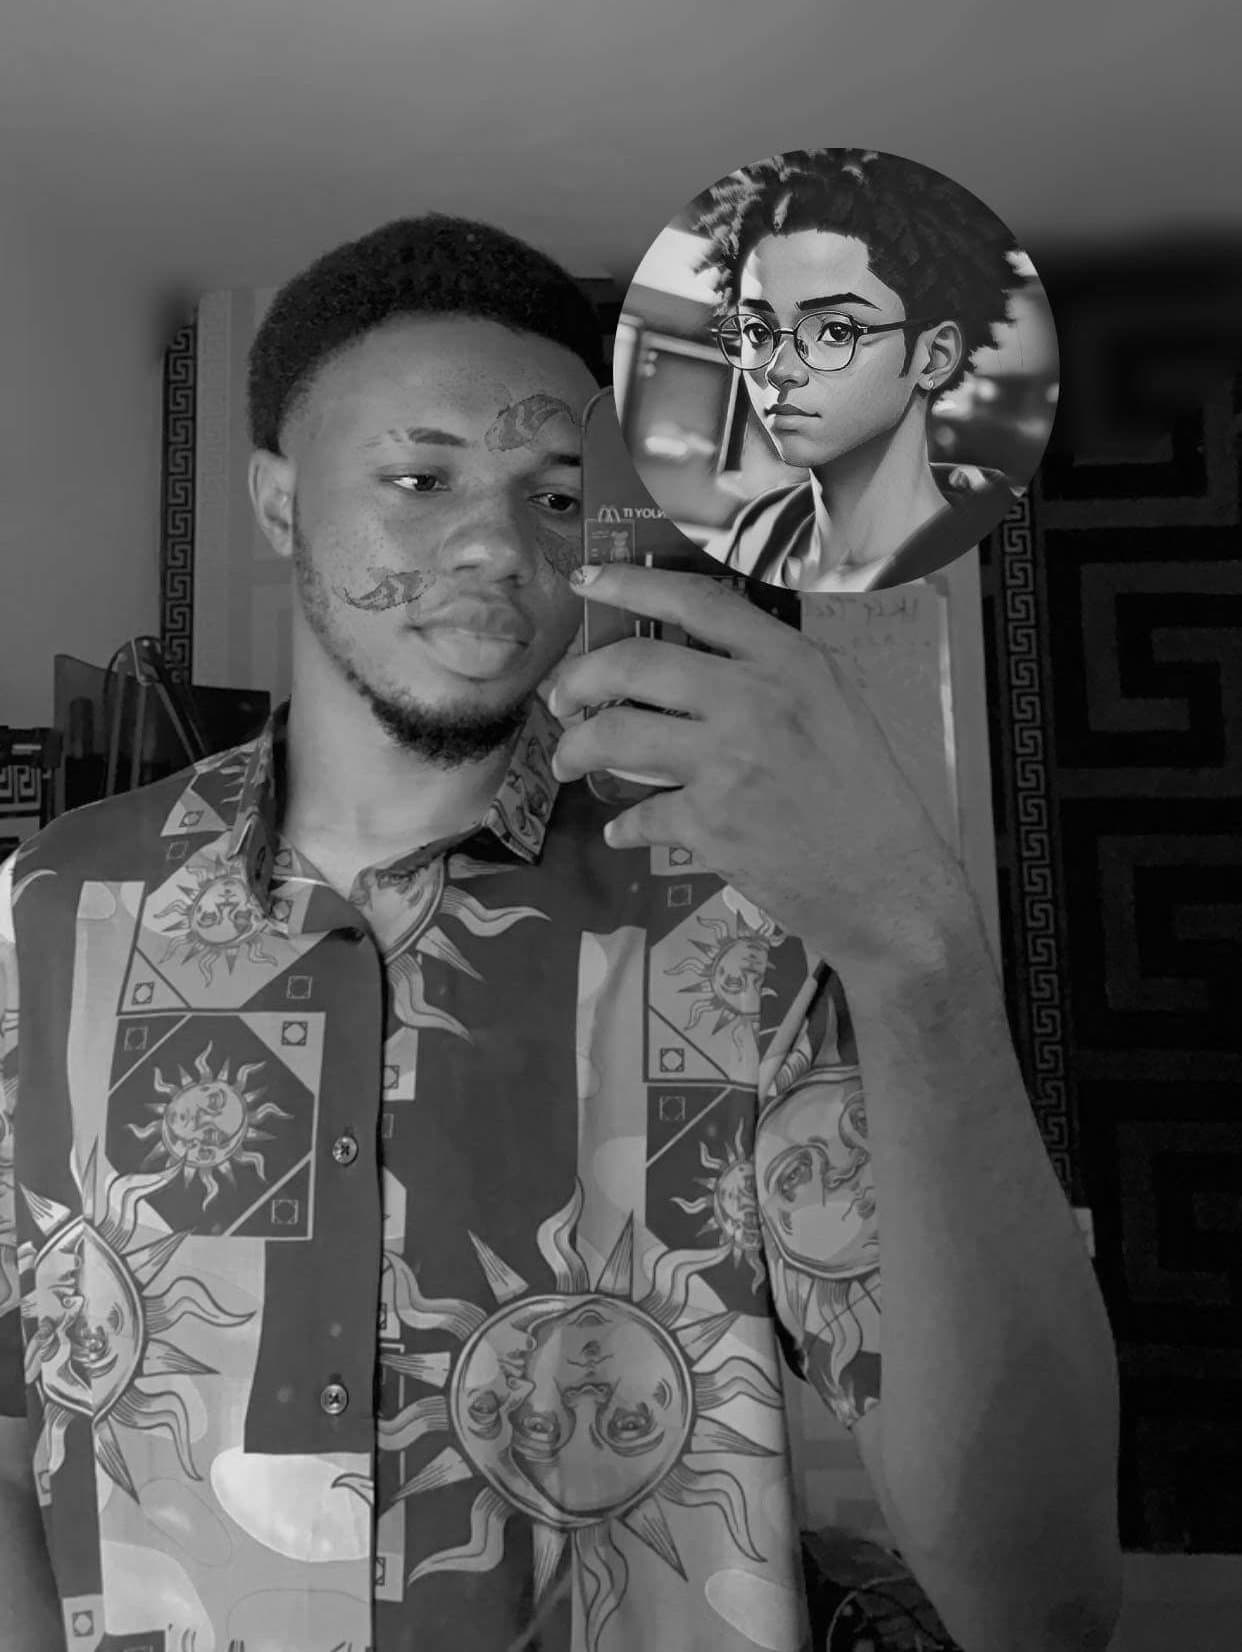
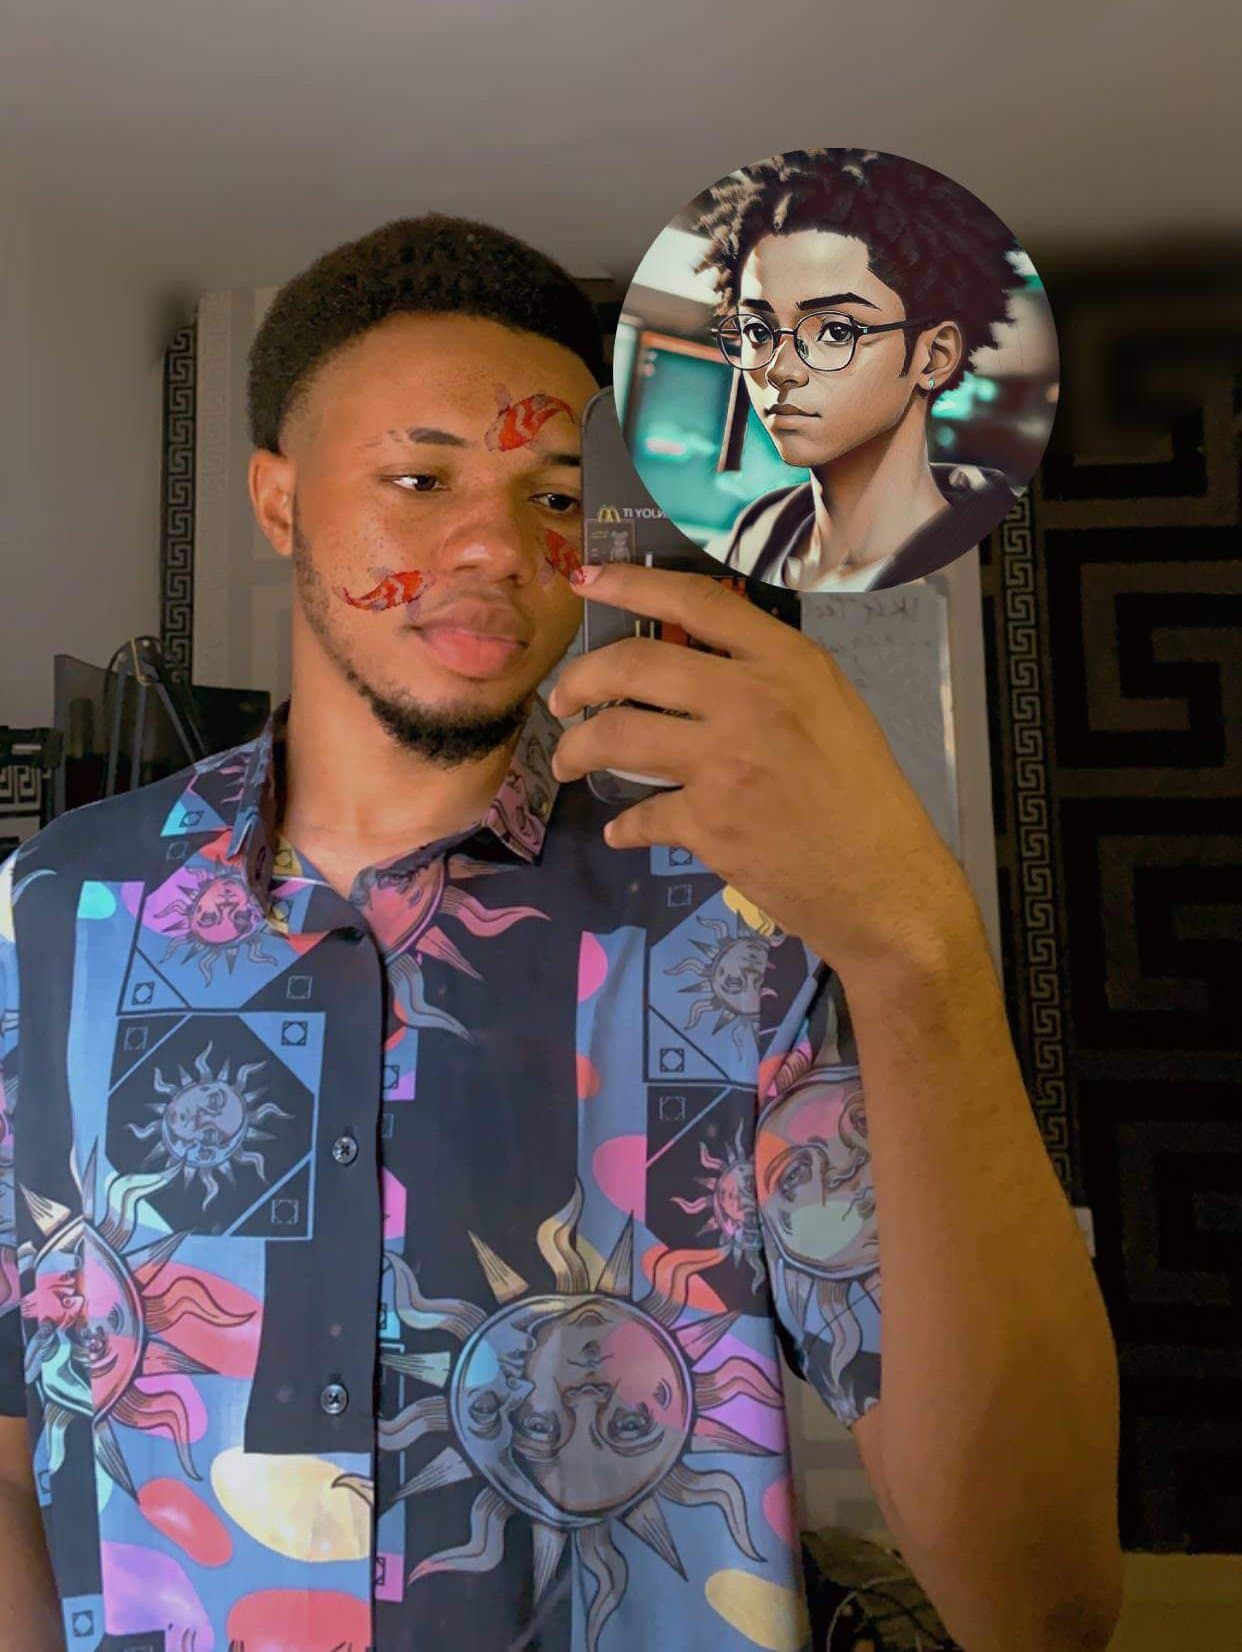
feat(images): render gooey grayscale reveals from color textures

diff --git a/src/components/home/SectionTwo.tsx b/src/components/home/SectionTwo.tsx
@@ -8,7 +8,7 @@ import { usePathname } from 'next/navigation';
 
 const SectionTwo = () => {
   const projects = useMemo<
-    (Record<'name' | 'about' | 'cover1' | 'cover2' | 'alt' | 'link1' | 'role', string> &
+    (Record<'name' | 'about' | 'cover' | 'alt' | 'link1' | 'role', string> &
       Partial<Record<'link2' | 'link1Text' | 'link2Text', string>> & { stack: string[]; id: number })[]
   >(
     () =>
@@ -17,8 +17,7 @@ const SectionTwo = () => {
           name: 'Useri',
           about:
             'Agro-exclusive market and logistics mobile platform that helps tackle food waste and optimize food supply chain.',
-          cover1: '/assets/img/useri-cover.jpg',
-          cover2: '/assets/img/useri-cover-hover.jpg',
+          cover: '/assets/img/useri-cover-color.jpg',
           alt: 'Useri cover',
           role: 'Mobile/Backend Engineer',
           link1: 'https://play.google.com/store/apps/details?id=com.useriapp.useri',
@@ -31,8 +30,7 @@ const SectionTwo = () => {
           name: 'Kanta',
           about:
             'Web platform that manages local football teams, players, fixture and live scores with real-time updates.',
-          cover1: '/assets/img/kanta-cover.png',
-          cover2: '/assets/img/kanta-cover-hover.png',
+          cover: '/assets/img/kanta-cover-color.png',
           alt: 'Kanta cover',
           role: 'Full-stack Engineer',
           link1: 'https://kantaball.com',
@@ -42,8 +40,7 @@ const SectionTwo = () => {
         {
           name: 'Dentbud',
           about: 'AI/mobile-based student smart personal assistant for tracking activities, task, courses and more.',
-          cover1: '/assets/img/dentbud-cover.png',
-          cover2: '/assets/img/dentbud-cover-hover.png',
+          cover: '/assets/img/dentbud-cover-color.png',
           alt: 'Dentbud cover',
           role: 'Full-stack/AI Engineer',
           link1: 'https://dentbud.surge.sh',
@@ -53,8 +50,7 @@ const SectionTwo = () => {
         {
           name: 'BAS',
           about: 'Biometric attendance system that tracks student attendance using fingerprint biometrics.',
-          cover1: '/assets/img/bas-cover.png',
-          cover2: '/assets/img/bas-cover-hover.png',
+          cover: '/assets/img/bas-cover-color.png',
           alt: 'BAS cover',
           role: 'Full-stack/CV Engineer',
           link1: 'https://github.com/IamGideonIdoko/bio-attendance-sys#screenshots',
@@ -64,8 +60,7 @@ const SectionTwo = () => {
         {
           name: 'LinAssess',
           about: 'Functional clone of LinkedIn assessment to help you ace your assessments.',
-          cover1: '/assets/img/linassess-cover.jpg',
-          cover2: '/assets/img/linassess-cover-hover.jpg',
+          cover: '/assets/img/linassess-cover-color.jpg',
           alt: 'LinAssess cover',
           role: 'Full-stack Developer',
           link1: 'https://linassess.netlify.app',
@@ -237,8 +232,8 @@ const SectionTwo = () => {
                   <div className={styles.projectImgWrapper}>
                     <div className="gooey__image">
                       <Image
-                        src={project.cover2}
-                        data-hover={project.cover1}
+                        src={project.cover}
+                        data-grayscale-hover="true"
                         alt={project.alt}
                         width={1920}
                         height={1080}

diff --git a/src/classes/GooeyImage.ts b/src/classes/GooeyImage.ts
@@ -29,11 +29,9 @@ export default class GooeyImage {
   private isHovering?: boolean;
   private uniforms?: {
     u_alpha: THREE.IUniform<number>;
+    u_grayscaleHover: THREE.IUniform<number>;
     u_map: THREE.IUniform<THREE.Texture> & { type: UniformType };
     u_ratio: THREE.IUniform<THREE.Vector2>;
-    u_hovermap: THREE.IUniform<THREE.Texture> & { type: UniformType };
-    u_hoverratio: THREE.IUniform<THREE.Vector2>;
-    u_shape: THREE.IUniform<THREE.Texture>;
     u_mouse: { value: THREE.Vector2 };
     u_progressHover: THREE.IUniform<number>;
     u_progressClick: THREE.IUniform<number>;
@@ -95,8 +93,8 @@ export default class GooeyImage {
       this.onPointerLeave();
     };
 
-    if (this.img.src && this.img.dataset.hover) {
-      this.preload([this.img.src, this.img.dataset.hover], () => {
+    if (this.img.src) {
+      this.preload([this.img.src], () => {
         this.initImage();
       });
     }
@@ -201,19 +199,13 @@ export default class GooeyImage {
     }
 
     const texture = this.images[0];
-    const hoverTexture = this.images[1];
     const textureImage = texture.image;
-    const hoverTextureImage = hoverTexture.image;
 
     if (
       !textureImage ||
-      !hoverTextureImage ||
       typeof textureImage !== 'object' ||
-      typeof hoverTextureImage !== 'object' ||
       !('width' in textureImage) ||
-      !('height' in textureImage) ||
-      !('width' in hoverTextureImage) ||
-      !('height' in hoverTextureImage)
+      !('height' in textureImage)
     ) {
       return;
     }
@@ -222,20 +214,14 @@ export default class GooeyImage {
       width: Number(textureImage.width),
       height: Number(textureImage.height),
     };
-    const hoverTextureDimensions = {
-      width: Number(hoverTextureImage.width),
-      height: Number(hoverTextureImage.height),
-    };
 
     this.getBounds();
 
     this.uniforms = {
       u_alpha: { value: 1 },
+      u_grayscaleHover: { value: this.img.dataset.grayscaleHover === 'true' ? 1 : 0 },
       u_map: { type: 't', value: texture },
       u_ratio: { value: getRatio(this.sizes, textureDimensions) },
-      u_hovermap: { type: 't', value: hoverTexture },
-      u_hoverratio: { value: getRatio(this.sizes, hoverTextureDimensions) },
-      u_shape: { value: this.images[2] },
       u_mouse: { value: this.mouse },
       u_progressHover: { value: 0 },
       u_progressClick: { value: 0 },

diff --git a/src/components/pages/AboutPage.tsx b/src/components/pages/AboutPage.tsx
@@ -79,7 +79,6 @@ export default function AboutPage() {
               <div className="gooey__image">
                 <Image
                   src="/assets/img/gideon.jpg"
-                  data-hover="/assets/img/gideon-hover.jpg"
                   alt="Gideon Idoko"
                   width={1242}
                   height={1652}

diff --git a/src/app/uses/page.tsx b/src/app/uses/page.tsx
@@ -19,7 +19,6 @@ export default function UsesPage() {
             <div className="gooey__image">
               <Image
                 src="/assets/img/workspace.jpeg"
-                data-hover="/assets/img/workspace-hover.jpeg"
                 alt="Workspace"
                 width={960}
                 height={1280}

diff --git a/src/components/home/SectionThree.tsx b/src/components/home/SectionThree.tsx
@@ -22,7 +22,6 @@ const SectionThree = () => {
           <div className="gooey__image">
             <Image
               src="/assets/img/gideon.jpg"
-              data-hover="/assets/img/gideon-hover.jpg"
               alt="Gideon Idoko"
               width={1242}
               height={1652}
